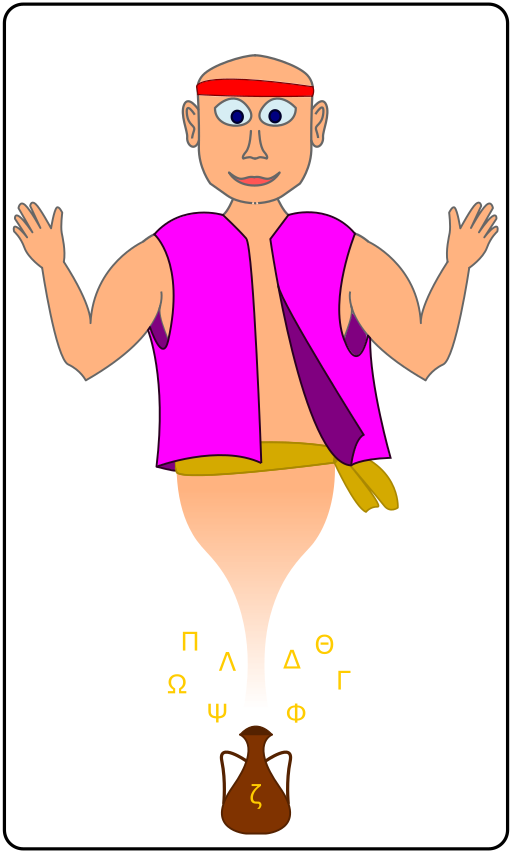
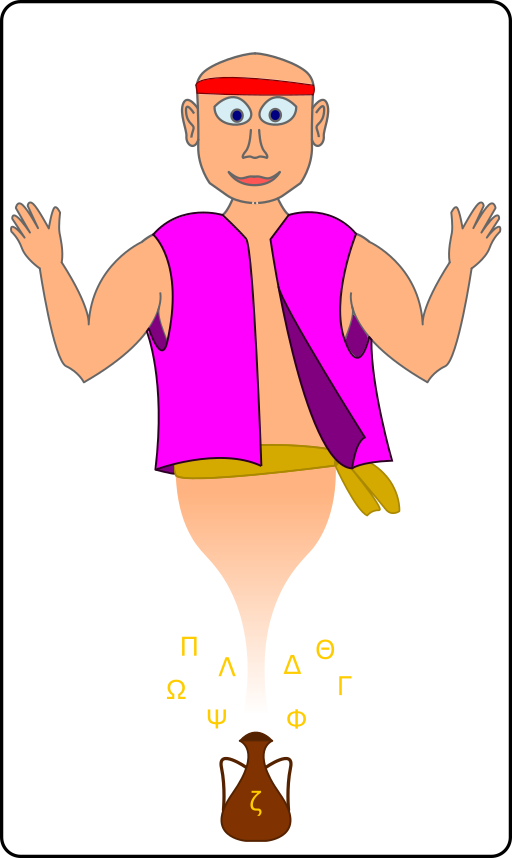
Revert (#30)

diff --git a/test/google_test.cpp b/test/google_test.cpp
@@ -3,11 +3,10 @@
 #include <numeric>
 #include <functional>
 #include <chrono>
-#include <cstdlib>
 
 // NMethods //
 #include <primes.hpp>
-#include <exponentiation.hpp>
+#include <binary_exponentiation.hpp>
 #include <gcd.hpp>
 #include <extended_gcd.hpp>
 #include <sort.hpp>
@@ -15,13 +14,11 @@
 #include <search.hpp>
 #include <combinatorics.hpp>
 #include <segment_tree.hpp>
-#include <union_find.hpp>
 #include <utility.hpp>
 
 // GTest //
 #include <gtest/gtest.h>
 
-// Constants
 const int N_LOG = 1e5 + 1;
 const int N_ROOT = 1e3 + 1;
 const int N_CROOT = 1e2 + 1;
@@ -29,12 +26,6 @@ const int N_FACT = 10;
 const int P = 9592;
 const int E = 31;
 const long long M = 1e9 + 7;
-
-const char ASSERTION_REGEX[] = "Assertion.*failed";
-const char BUILD_TYPE_SKIP[] = "Test";
-const char TOTAL_RUNTIME[] = "Total runtime: ";
-const char AVERAGE_RUNTIME[] = "Average runtime: ";
-const char WORST_RUNTIME[] = "Worst runtime: ";
 
 TEST(PrimesTest, CountCheck) {
     std::vector<int> primes = nm::eratosthenes_sieve(N_LOG);
@@ -136,9 +127,9 @@ TEST(SortTest, AverageRunTimeMergeSort) {
         EXPECT_TRUE(sorted);
     } while (nm::next_permutation(permutation));
 
-    std::cout << TOTAL_RUNTIME << total_time << '\t'
-    << AVERAGE_RUNTIME << total_time / count << '\t'
-    << WORST_RUNTIME << worst_time << '\n';
+    std::cout << "Total runtime: " << total_time << '\t'
+    << "Average runtime: " << total_time / count << '\t'
+    << "Worst runtime: " << worst_time << '\n';
 }
 
 TEST(SortTest, AverageRunTimeHeapSort) {
@@ -170,9 +161,9 @@ TEST(SortTest, AverageRunTimeHeapSort) {
         EXPECT_TRUE(sorted);
     } while (nm::next_permutation(permutation));
 
-    std::cout << TOTAL_RUNTIME << total_time << '\t'
-    << AVERAGE_RUNTIME << total_time / count << '\t'
-    << WORST_RUNTIME << worst_time << '\n';
+    std::cout << "Total runtime: " << total_time << '\t'
+    << "Average runtime: " << total_time / count << '\t'
+    << "Worst runtime: " << worst_time << '\n';
 }
 
 TEST(SortTest, AverageRunTimeQuickSort) {
@@ -204,9 +195,9 @@ TEST(SortTest, AverageRunTimeQuickSort) {
         EXPECT_TRUE(sorted);
     } while (nm::next_permutation(permutation));
 
-    std::cout << TOTAL_RUNTIME << total_time << '\t'
-    << AVERAGE_RUNTIME << total_time / count << '\t'
-    << WORST_RUNTIME << worst_time << '\n';
+    std::cout << "Total runtime: " << total_time << '\t'
+    << "Average runtime: " << total_time / count << '\t'
+    << "Worst runtime: " << worst_time << '\n';
 }
 
 TEST(SortTest, AverageRunTimeHybridSort) {
@@ -238,9 +229,9 @@ TEST(SortTest, AverageRunTimeHybridSort) {
         EXPECT_TRUE(sorted);
     } while (nm::next_permutation(permutation));
 
-    std::cout << TOTAL_RUNTIME << total_time << '\t'
-    << AVERAGE_RUNTIME << total_time / count << '\t'
-    << WORST_RUNTIME << worst_time << '\n';
+    std::cout << "Total runtime: " << total_time << '\t'
+    << "Average runtime: " << total_time / count << '\t'
+    << "Worst runtime: " << worst_time << '\n';
 }
 
 TEST(BoundSearch, DistinctElements) {
@@ -267,33 +258,19 @@ TEST(BoundSearch, DistinctPrimes) {
     }
 }
 
-TEST(SegmentTree, DeathTest) {
-    const int i = 1;
+TEST(SegmentTree, OutOfBounds) {
+    std::vector<int> data(N_LOG, 1);
+    nm::Integrator<int> *integrator = new nm::Integrator<int>(0);
+    GTEST_SKIP() << "undefined reference even after explicit instantiation";
+    nm::SegmentTree<int, nm::Integrator<int> > st(data); // FIXME
+
+    ASSERT_NO_FATAL_FAILURE(st.query(0, N_LOG - 1) == 0);
+    ASSERT_NO_FATAL_FAILURE(st.update(1, 0, N_LOG - 1));
     
-    std::vector<int> data(N_LOG, i);
-    nm::Integrator<int> *integrator = new nm::Integrator<int>(i);
-    nm::SegmentTree<int, nm::Integrator<int> > st(data);
-
-    ASSERT_NO_FATAL_FAILURE(st.query(P, P));
-    ASSERT_NO_FATAL_FAILURE(st.query(0, N_LOG - 1));
-    ASSERT_NO_FATAL_FAILURE(st.update(i, P));
-    ASSERT_NO_FATAL_FAILURE(st.update(i, 0, N_LOG - 1));
+    ASSERT_NO_FATAL_FAILURE(st.update(1, P));
+    EXPECT_EQ(st.query(P, P), 1);
     
-    if (std::getenv("BUILD_TYPE") != BUILD_TYPE_SKIP)
-        GTEST_SKIP();
-    EXPECT_DEATH(st.update(i, 2 * N_LOG), ASSERTION_REGEX);
-}
-
-TEST(UnionFind, DeathTest) {
-    nm::UnionFind<int> uf(N_LOG);
-    ASSERT_NO_FATAL_FAILURE(uf.find(N_LOG));
-    EXPECT_TRUE(uf.united(N_FACT, N_FACT));
-    EXPECT_EQ(uf.unite(N_ROOT, N_ROOT), N_ROOT);
-
-    if (std::getenv("BUILD_TYPE") != BUILD_TYPE_SKIP)
-        GTEST_SKIP();
-    EXPECT_DEATH(uf.find(0), ASSERTION_REGEX);
-    EXPECT_DEATH(uf.find(N_LOG + 1), ASSERTION_REGEX);
+    EXPECT_DEATH(st.update(0, N_LOG), "failed"); // FIXME
 }
 
 int main(int argc, char *argv[])

diff --git a/src/sort.cpp b/src/sort.cpp
@@ -1,7 +1,7 @@
 #include <sort.hpp>
 
 #include <numeric>
-#include <utility>
+#include <algorithm>
 #include <cassert>
 #include <cmath>
 
@@ -34,24 +34,6 @@ namespace nm
     void hybrid_sort(U lo, U hi, std::vector<T>& list, std::function<bool(T&, T&)> compare) {
         introspective_qsort<T, U>(lo, hi, list, U(std::log2(list.size()) * 2), compare);
     }
-
-    // partition is utility function of q_sort and introspective_qsort //
-    template<class T, typename U>
-    U partition(const U lo, const U hi, std::vector<T> &list,
-        std::function<bool(T&, T&)> compare) {
-            T pivot = list[hi];
-            
-            U i = lo;
-            for (U j = lo; j < hi; j++) {
-                if (not compare(list[j], pivot)) continue;
-
-                std::swap(list[i], list[j]);
-                i++;
-            }
-
-            std::swap(list[i], list[hi]);
-            return i;
-        }
 
     template<class T, typename U>
     void introspective_qsort(U lo, U hi, std::vector<T>& list, U depth,
@@ -122,6 +104,23 @@ namespace nm
             }
         }
     }
+    
+    template<class T, typename U>
+    U partition(const U lo, const U hi, std::vector<T> &list,
+        std::function<bool(T&, T&)> compare) {
+            T pivot = list[hi];
+            
+            U i = lo;
+            for (U j = lo; j < hi; j++) {
+                if (not compare(list[j], pivot)) continue;
+
+                std::swap(list[i], list[j]);
+                i++;
+            }
+
+            std::swap(list[i], list[hi]);
+            return i;
+        }
     
     // Prefer merge_sort.
     // U is expected to be integer data type.

diff --git a/src/segment_tree.cpp b/src/segment_tree.cpp
@@ -2,9 +2,6 @@
 
 #include <utility.hpp>
 
-#include <algorithm>
-#include <cassert>
-
 namespace nm
 {
     // !? lookout for // modify // in popagate function
@@ -55,8 +52,8 @@ namespace nm
             this->propagate(i);
 
             std::int32_t mid = tlo + (thi - tlo) / 2;
-            return this->integrator->integrate(this->query_tree(lo, std::min(mid, hi), tlo, mid, i * 2),
-                this->query_tree(std::max(lo, mid + 1), hi, mid + 1, thi, i * 2 + 1));
+            return this->integrator->integrate(this->query_tree(lo, min(mid, hi), tlo, mid, i * 2),
+                this->query_tree(max(lo, mid + 1), hi, mid + 1, thi, i * 2 + 1));
         }
 
     // position is index in zero indexed sequence
@@ -85,8 +82,8 @@ namespace nm
             this->propagate(i);
 
             std::int32_t mid = tlo + (thi - tlo) / 2;
-            this->update_tree(value, lo, std::min(mid, hi), tlo, mid, i * 2);
-            this->update_tree(value, std::max(lo, mid + 1), hi, mid + 1, thi, i * 2 + 1);
+            this->update_tree(value, lo, min(mid, hi), tlo, mid, i * 2);
+            this->update_tree(value, max(lo, mid + 1), hi, mid + 1, thi, i * 2 + 1);
             
             return this->tree[i] = this->integrator->integrate(this->tree[i * 2],
                 this->tree[i * 2 + 1]);

diff --git a/test/simple_test.cpp b/test/simple_test.cpp
@@ -8,7 +8,7 @@
 
 // NMethods //
 #include <primes.hpp>
-#include <exponentiation.hpp>
+#include <binary_exponentiation.hpp>
 #include <gcd.hpp>
 #include <extended_gcd.hpp>
 #include <sort.hpp>
@@ -17,7 +17,7 @@
 // Constants
 enum enumerate {
     primes,
-    exponentiation,
+    binary_exponentiation,
     gcd,
     extended_gcd,
     sort,
@@ -28,7 +28,7 @@ enum enumerate {
 
 enumerate codes(std::string const &s) {
     if (s == "primes") return primes;
-    if (s == "exponentiation") return exponentiation;
+    if (s == "binary_exponentiation") return binary_exponentiation;
     if (s == "gcd") return gcd;
     if (s == "extended_gcd") return extended_gcd;
     if (s == "sort") return sort;
@@ -103,7 +103,7 @@ int main(int argc, char const *argv[])
         assert(test_primes());
         break;
     
-    case exponentiation:
+    case binary_exponentiation:
         assert(test_binary_exponentiation());
         break;
     

diff --git a/src/modulo_operations.cpp b/src/modulo_operations.cpp
@@ -2,7 +2,7 @@
 
 #include <gcd.hpp>
 #include <extended_gcd.hpp>
-#include <exponentiation.hpp>
+#include <binary_exponentiation.hpp>
 
 namespace nm
 {
@@ -62,7 +62,7 @@ namespace nm
         return z;
     }
 
-    // Raise requires exponentiation.
+    // Raise requires binary_exponentiation.
     template<typename T>
     T Arithmetic<T>::raise(T x, T y) {
         return mod_bin_exp_iterative<T>(x, y, this->mod);

diff --git a/include/modulo_operations.hpp b/include/modulo_operations.hpp
@@ -15,7 +15,7 @@ namespace nm
     /*
      * Arithmetic
      * Divide requires multiplicative_inverse.
-     * Raise requires exponentiation.
+     * Raise requires binary_exponentiation.
      * T is expected to be signed integer type.
      */
     template<typename T>

diff --git a/src/binary_exponentiation.cpp b/src/binary_exponentiation.cpp
@@ -1,4 +1,4 @@
-#include <exponentiation.hpp>
+#include <binary_exponentiation.hpp>
 
 namespace nm
 {

diff --git a/src/gcd.cpp b/src/gcd.cpp
@@ -1,6 +1,6 @@
 #include <gcd.hpp>
 
-#include<utility>
+#include<algorithm>
 
 namespace nm
 {

diff --git a/doc/fun.md b/doc/fun.md
@@ -7,13 +7,11 @@ Comics
 ------
 
 TODO: [Confused Padawan](/doc/confused-padawan.md) trying to find his place in the world.  
-
 [![Torti](https://i.ibb.co/MNrZN9v/billi.png)](https://ibb.co/MNrZN9v)
 [![Billi](https://i.ibb.co/yF6TmQP/torti.png)](https://ibb.co/yF6TmQP)  
 
 TODO: [Quantum Superposition](/doc/quantum-superposition-genie.md) explained by a Genie.  
-
-[![Genie](https://i.ibb.co/rwzC1Cb/genie.png)](https://ibb.co/rwzC1Cb)  
+[![Genie](https://i.ibb.co/xD08mHX/genie.png)](https://ibb.co/xD08mHX)  
 
 Poetry
 ------

diff --git a/README.md b/README.md
@@ -72,7 +72,7 @@ Don't get bored - boredom kills. If bored, then have **[fun](/doc/fun.md)**!
 
 [![Torti](https://i.ibb.co/MNrZN9v/billi.png)](https://ibb.co/MNrZN9v)
 [![Billi](https://i.ibb.co/yF6TmQP/torti.png)](https://ibb.co/yF6TmQP)
-[![Genie](https://i.ibb.co/rwzC1Cb/genie.png)](https://ibb.co/rwzC1Cb)  
+[![Genie](https://i.ibb.co/xD08mHX/genie.png)](https://ibb.co/xD08mHX)
 
 Appreciation
 ------------
